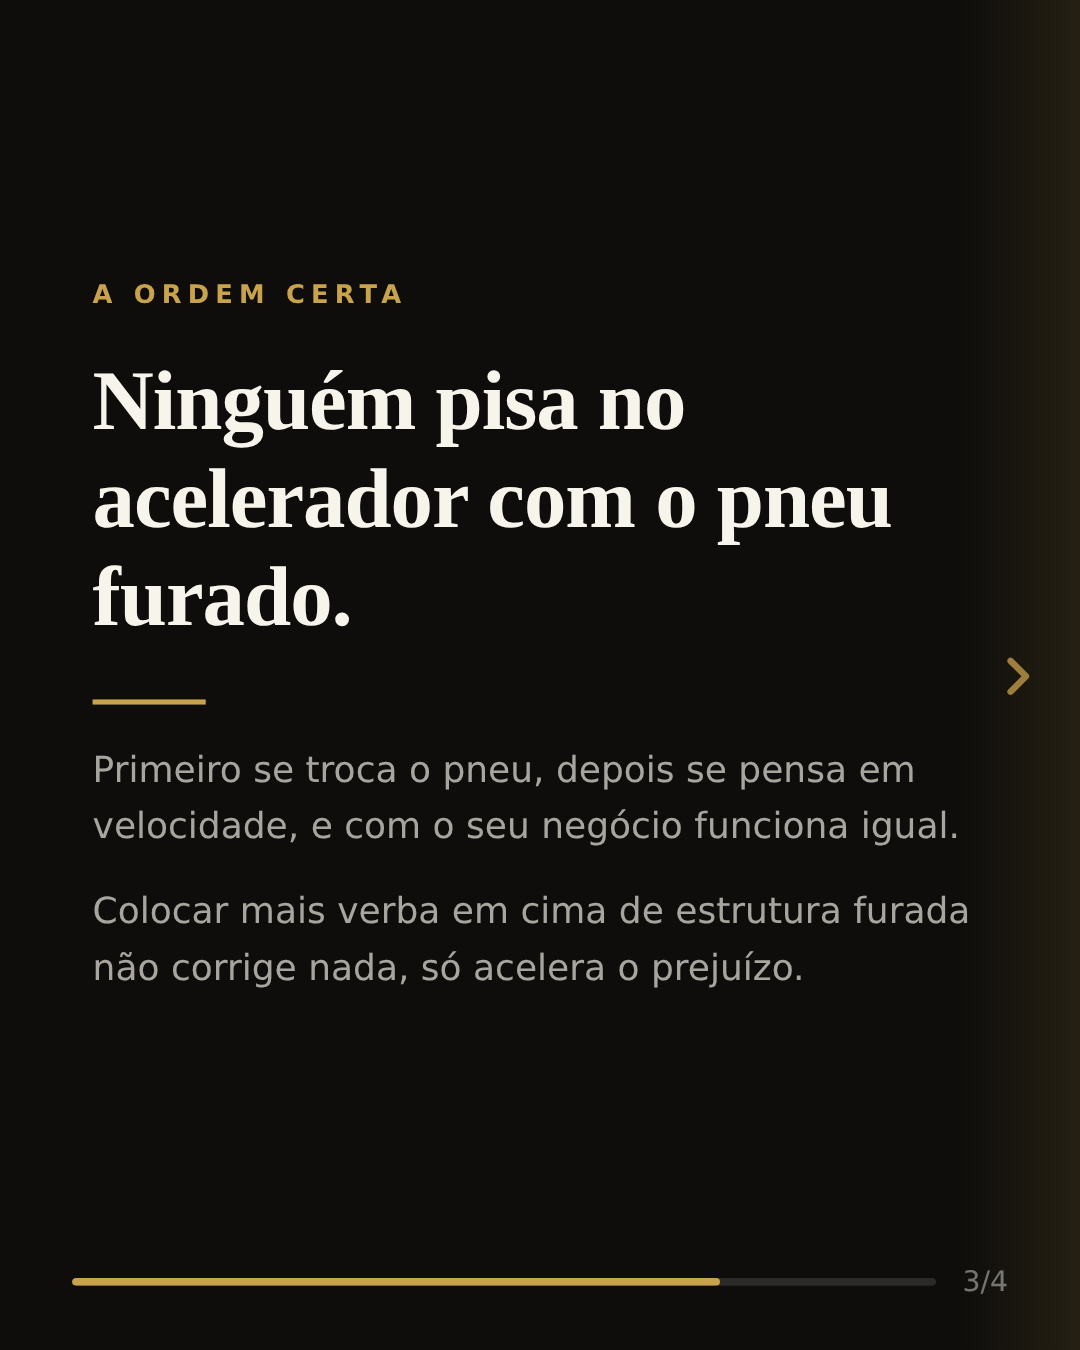
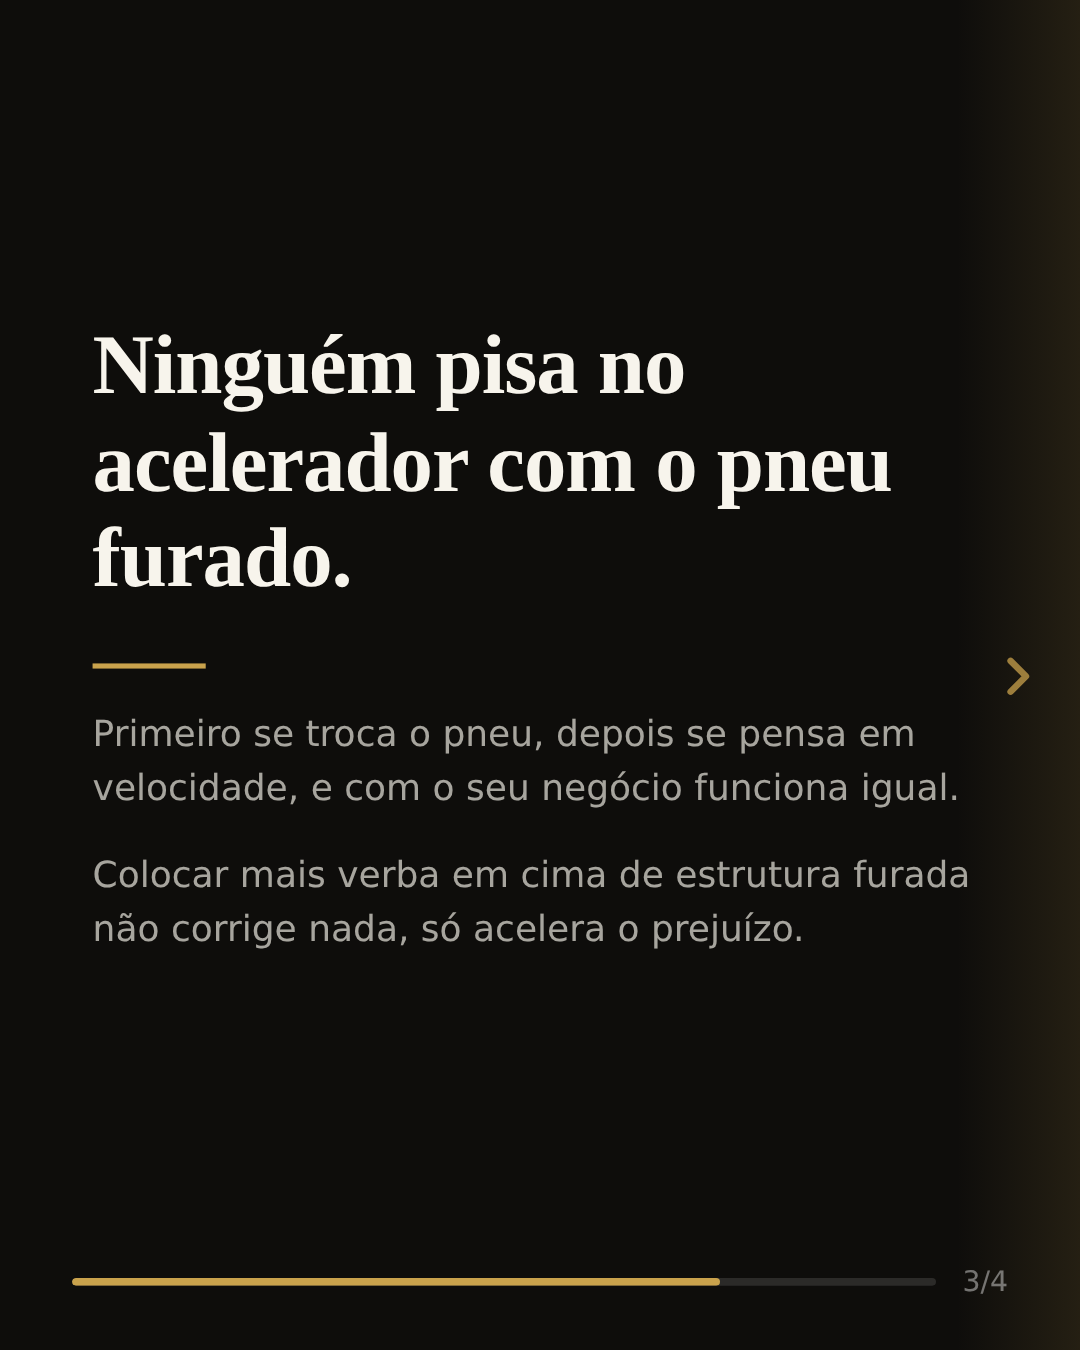
Vitoria Daniela: remove os rotulos em caixa alta dos cards
A pedido da cliente, saem TRAFEGO, ONDE O DINHEIRO SOME, A ORDEM CERTA e O
PROXIMO PASSO. O titulo passa a abrir o card sozinho, o que deixa a composicao
mais limpa e tira uma camada de informacao que nao estava trabalhando.

A funcao tag() fica no arquivo, sem uso, caso o rotulo volte a fazer sentido em
outra peca.

Reexportadas as duas versoes do card 3.

Claude-Session: https://claude.ai/code/session_013Sa3HLQHYweprDFbfMtnWK

Changed region(s): [[0.0917, 0.1867, 0.9167, 0.7467]]

diff --git a/clientes/vitoria-daniela/copy/2026-08-06-carrossel-sessao-gratuita/carrossel.html b/clientes/vitoria-daniela/copy/2026-08-06-carrossel-sessao-gratuita/carrossel.html
@@ -110,6 +110,8 @@ const GRADIENTE = `linear-gradient(165deg, ${BRAND.dark} 0%, ${BRAND.primary} 52
 
 /* ====================== COMPONENTES ====================== */
 
+/* Rótulo em caixa alta acima do título. Fora de uso nesta peça, a pedido da
+   cliente, mas mantido aqui caso volte a fazer sentido em outro carrossel. */
 function tag(texto, fundo) {
   const cor = fundo === 'light' ? BRAND.dark
             : fundo === 'dark'  ? BRAND.primary
@@ -190,7 +192,6 @@ const SLIDES = [
     <div class="slide-content" style="padding:38px 36px 64px;">
       ${lockup('dark')}
       <div style="flex:1;display:flex;flex-direction:column;justify-content:center;">
-        ${tag('TRÁFEGO', 'dark')}
         ${titulo('De cada 10 empresários que eu converso, 8 já queimaram dinheiro em tráfego.', 'dark', 30)}
         ${filete('dark')}
         ${paragrafo('E quase nunca o problema estava no tráfego, estava em tudo que vinha depois dele.', 'dark')}
@@ -201,7 +202,6 @@ const SLIDES = [
   /* 2 — ANALOGIA DELA: a torneira aberta com vazamentos (está no site). */
   { fundo: 'light', corpo: `
     <div class="slide-content" style="justify-content:center;padding:38px 36px 64px;">
-      ${tag('ONDE O DINHEIRO SOME', 'light')}
       ${titulo('Anúncio sem estrutura é torneira aberta em cano furado.', 'light', 31)}
       ${paragrafo('O dinheiro entra pelo anúncio e vaza no caminho, no perfil que promete uma coisa e mostra outra, na mensagem que fica três dias sem resposta, na proposta que foi enviada e ninguém retomou.', 'light')}
       <p class="serif" style="font-size:17px;line-height:1.35;color:${BRAND.dark};font-style:italic;margin-top:18px;">Você paga pela água que nunca chega no balde.</p>
@@ -215,7 +215,6 @@ const SLIDES = [
      revisão automatizada. Troque em CARD3 lá no topo. */
   { fundo: 'dark', corpo: CARD3 === 'pneu' ? `
     <div class="slide-content" style="justify-content:center;padding:38px 36px 64px;">
-      ${tag('A ORDEM CERTA', 'dark')}
       ${titulo('Ninguém pisa no acelerador com o pneu furado.', 'dark', 33)}
       ${filete('dark')}
       ${paragrafo('Primeiro se troca o pneu, depois se pensa em velocidade, e com o seu negócio funciona igual.', 'dark')}
@@ -223,7 +222,6 @@ const SLIDES = [
     </div>
   ` : `
     <div class="slide-content" style="justify-content:center;padding:38px 36px 64px;">
-      ${tag('A ORDEM CERTA', 'dark')}
       ${titulo('Ninguém estanca um sangramento treinando condicionamento.', 'dark', 31)}
       ${filete('dark')}
       ${paragrafo('No hospital a prioridade é parar o sangue, estabilizar, e só então pensar em deixar o corpo mais forte.', 'dark')}
@@ -236,7 +234,6 @@ const SLIDES = [
     <div class="slide-content" style="padding:38px 36px 64px;">
       ${lockup('gradient')}
       <div style="flex:1;display:flex;flex-direction:column;justify-content:center;">
-        ${tag('O PRÓXIMO PASSO', 'gradient')}
         ${titulo('Antes de investir mais, vale saber por onde o seu dinheiro está saindo.', 'gradient', 29)}
         ${paragrafo('Eu analiso pessoalmente cada aplicação e devolvo o direcionamento em menos de 24h, olhando o seu momento e o que precisa ser resolvido primeiro.', 'gradient')}
         <div style="margin-top:24px;">

diff --git a/clientes/vitoria-daniela/copy/2026-08-06-carrossel-sessao-gratuita/copy.md b/clientes/vitoria-daniela/copy/2026-08-06-carrossel-sessao-gratuita/copy.md
@@ -8,12 +8,10 @@
 ## Os 4 cards
 
 ### Card 1 · preto
-**Tag:** TRÁFEGO
 **Título:** De cada 10 empresários que eu converso, 8 já queimaram dinheiro em tráfego.
 **Corpo:** E quase nunca o problema estava no tráfego, estava em tudo que vinha depois dele.
 
 ### Card 2 · creme
-**Tag:** ONDE O DINHEIRO SOME
 **Título:** Anúncio sem estrutura é torneira aberta em cano furado.
 **Corpo:** O dinheiro entra pelo anúncio e vaza no caminho, no perfil que promete uma coisa e mostra outra, na mensagem que fica três dias sem resposta, na proposta que foi enviada e ninguém retomou.
 **Remate:** *Você paga pela água que nunca chega no balde.*
@@ -34,7 +32,6 @@ Trocar entre as duas: a constante `CARD3` no topo do `carrossel.html` (`'hospita
 `'pneu'`), e reexportar.
 
 ### Card 4 · dourado
-**Tag:** O PRÓXIMO PASSO
 **Título:** Antes de investir mais, vale saber por onde o seu dinheiro está saindo.
 **Corpo:** Eu analiso pessoalmente cada aplicação e devolvo o direcionamento em menos de 24h, olhando o seu momento e o que precisa ser resolvido primeiro.
 **CTA:** Clique em Saiba Mais
